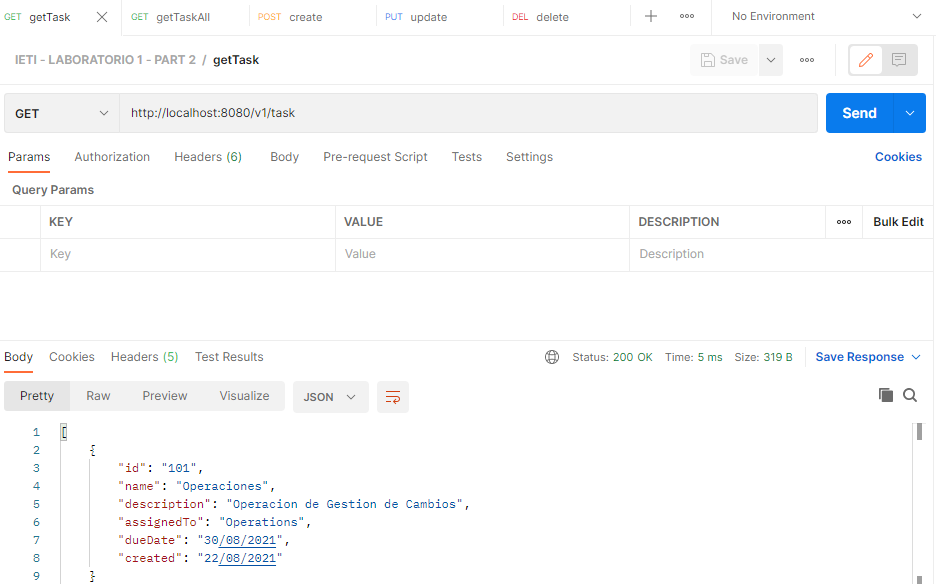
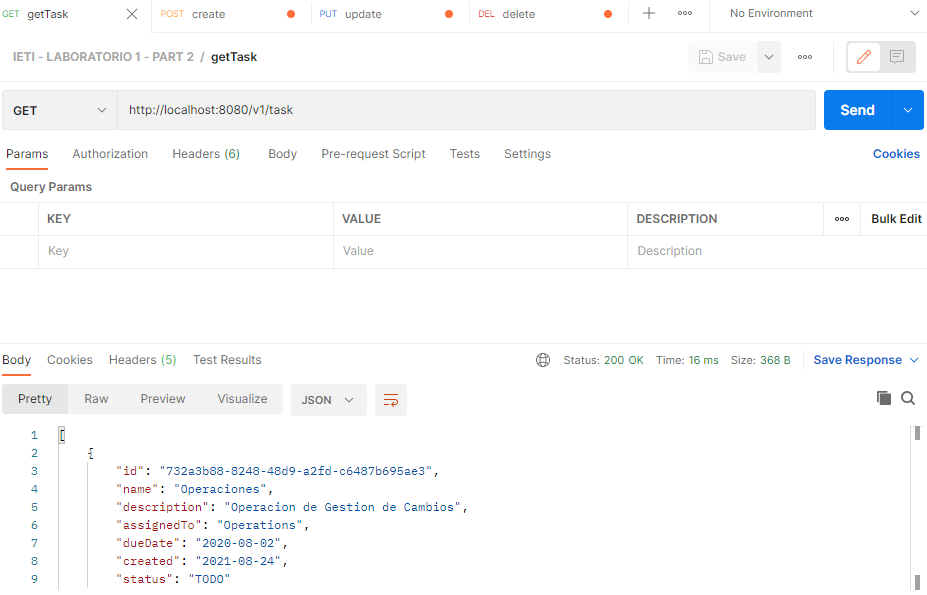
Update Postman

diff --git a/src/main/java/edu/eci/ieti/APISpringBootRest/data/Task.java b/src/main/java/edu/eci/ieti/APISpringBootRest/data/Task.java
@@ -2,8 +2,10 @@ package edu.eci.ieti.APISpringBootRest.data;
 
 import com.fasterxml.jackson.annotation.JsonFormat;
 import com.fasterxml.jackson.annotation.JsonFormat.Shape;
-
+import edu.eci.ieti.APISpringBootRest.Status.Status;
+import edu.eci.ieti.APISpringBootRest.dto.TaskDto;
 import java.util.Date;
+import java.util.UUID;
 
 public class Task {
 
@@ -17,10 +19,6 @@ public class Task {
     private Date created;
     private Status status;
 
-    enum Status{
-        TODO, DOING, REVIEW, DONE
-    }
-
     public Task(String id, String name, String description, String assignedTo, Date dueDate, Date created, Status status) {
         this.id = id;
         this.name = name;
@@ -29,6 +27,26 @@ public class Task {
         this.dueDate = dueDate;
         this.created = created;
         this.status = status;
+    }
+
+    public Task(TaskDto taskDto) {
+        this.id = UUID.randomUUID().toString();
+        this.name = taskDto.getName();
+        this.description = taskDto.getDescription();
+        this.status = taskDto.getStatus();
+        this.assignedTo = taskDto.getAssignedTo();
+        this.dueDate = taskDto.getDueDate();
+        this.created = new Date();
+    }
+
+    public Task(TaskDto taskDto, String id) {
+        this.id =  id;
+        this.name = taskDto.getName();
+        this.description = taskDto.getDescription();
+        this.status = taskDto.getStatus();
+        this.assignedTo = taskDto.getAssignedTo();
+        this.dueDate = taskDto.getDueDate();
+        this.created = new Date();
     }
 
     public String getId() {
@@ -86,4 +104,5 @@ public class Task {
     public void setStatus(Status status) {
         this.status = status;
     }
+
 }

diff --git a/src/main/java/edu/eci/ieti/APISpringBootRest/controller/TaskController.java b/src/main/java/edu/eci/ieti/APISpringBootRest/controller/TaskController.java
@@ -1,6 +1,7 @@
 package edu.eci.ieti.APISpringBootRest.controller;
 
 import edu.eci.ieti.APISpringBootRest.data.Task;
+import edu.eci.ieti.APISpringBootRest.dto.TaskDto;
 import edu.eci.ieti.APISpringBootRest.service.TaskService;
 import org.springframework.beans.factory.annotation.Autowired;
 import org.springframework.http.HttpStatus;
@@ -30,13 +31,21 @@ public class TaskController {
     }
 
     @PostMapping
-    public ResponseEntity<Task> create( @RequestBody Task task ) {
-        return ResponseEntity.status(HttpStatus.OK).body(taskService.create(task));
+    public ResponseEntity<Task> create( @RequestBody TaskDto taskDto ) {
+        try{
+            return ResponseEntity.status(HttpStatus.OK).body(taskService.create(new Task(taskDto)));
+        }catch (Exception e){
+            return ResponseEntity.status(HttpStatus.INTERNAL_SERVER_ERROR).body(null);
+        }
     }
 
     @PutMapping("/{id}")
-    public ResponseEntity<Task> update(@RequestBody Task task, @PathVariable String id){
-        return ResponseEntity.status(HttpStatus.OK).body(taskService.update(task, id));
+    public ResponseEntity<Task> update(@RequestBody TaskDto taskDto, @PathVariable String id){
+        try{
+            return ResponseEntity.status(HttpStatus.OK).body(taskService.update(taskDto, id));
+        }catch(Exception e){
+            return ResponseEntity.status(HttpStatus.INTERNAL_SERVER_ERROR).body(null);
+        }
     }
 
     @DeleteMapping( "/{id}" )
@@ -48,6 +57,5 @@ public class TaskController {
             return ResponseEntity.status(HttpStatus.INTERNAL_SERVER_ERROR.ordinal()).body((false));
         }
     }
-
 
 }

diff --git a/src/main/java/edu/eci/ieti/APISpringBootRest/dto/TaskDto.java b/src/main/java/edu/eci/ieti/APISpringBootRest/dto/TaskDto.java
@@ -2,6 +2,7 @@ package edu.eci.ieti.APISpringBootRest.dto;
 
 import com.fasterxml.jackson.annotation.JsonFormat;
 import com.fasterxml.jackson.annotation.JsonFormat.Shape;
+import edu.eci.ieti.APISpringBootRest.Status.Status;
 import java.util.Date;
 
 public class TaskDto {
@@ -13,18 +14,15 @@ public class TaskDto {
     private Date dueDate;
     @JsonFormat(shape = Shape.STRING, pattern = "dd/MM/yyyy")
     private Date created;
-    private Status status;
+    private Status statusTaskDto;
 
-    enum Status{
-        TODO, DOING, REVIEW, DONE
-    }
-
-    public TaskDto(String name, String description, String assignedTo, Date dueDate, Date created) {
+    public TaskDto(String name, String description, String assignedTo, Date dueDate, Date created, Status status) {
         this.name = name;
         this.description = description;
         this.assignedTo = assignedTo;
         this.dueDate = dueDate;
         this.created = created;
+        this.statusTaskDto = status;
     }
 
     public String getName() {
@@ -65,5 +63,13 @@ public class TaskDto {
 
     public void setCreated(Date created) {
         this.created = created;
+    }
+
+    public Status getStatus() {
+        return statusTaskDto;
+    }
+
+    public void setStatus(Status status) {
+        this.statusTaskDto = status;
     }
 }

diff --git a/src/main/java/edu/eci/ieti/APISpringBootRest/service/TaskServiceHashMap.java b/src/main/java/edu/eci/ieti/APISpringBootRest/service/TaskServiceHashMap.java
@@ -1,8 +1,8 @@
 package edu.eci.ieti.APISpringBootRest.service;
 
 import edu.eci.ieti.APISpringBootRest.data.Task;
+import edu.eci.ieti.APISpringBootRest.dto.TaskDto;
 import org.springframework.stereotype.Service;
-
 import java.util.ArrayList;
 import java.util.HashMap;
 import java.util.List;
@@ -14,7 +14,11 @@ public class TaskServiceHashMap implements TaskService{
 
     @Override
     public Task create(Task task) {
-        return tasksMap.put(task.getId(), task);
+        if (tasksMap.containsKey(task.getId())) {
+            throw new RuntimeException("El Usuario Existe!");
+        }
+        tasksMap.put(task.getId(), task);
+        return tasksMap.get(task.getId());
     }
 
     @Override
@@ -30,11 +34,17 @@ public class TaskServiceHashMap implements TaskService{
 
     @Override
     public void deleteById(String id) {
+        if (!tasksMap.containsKey(id)) {
+            throw new RuntimeException("El Usuario no Existe!");
+        }
         tasksMap.remove(id);
+
     }
 
     @Override
-    public Task update(Task task, String id) {
-        return tasksMap.put(id, task);
+    public Task update(TaskDto task, String id) {
+        deleteById(id);
+        return create(new Task(task, id));
     }
+
 }

diff --git a/src/main/java/edu/eci/ieti/APISpringBootRest/service/TaskService.java b/src/main/java/edu/eci/ieti/APISpringBootRest/service/TaskService.java
@@ -1,7 +1,7 @@
 package edu.eci.ieti.APISpringBootRest.service;
 
 import edu.eci.ieti.APISpringBootRest.data.Task;
-
+import edu.eci.ieti.APISpringBootRest.dto.TaskDto;
 import java.util.List;
 
 public interface TaskService {
@@ -14,6 +14,6 @@ public interface TaskService {
 
     void deleteById( String id );
 
-    Task update( Task task, String id );
+    Task update(TaskDto task, String id );
 
 }

diff --git a/src/main/java/edu/eci/ieti/APISpringBootRest/Status/Status.java b/src/main/java/edu/eci/ieti/APISpringBootRest/Status/Status.java
@@ -1,0 +1,5 @@
+package edu.eci.ieti.APISpringBootRest.Status;
+
+public enum Status{
+    TODO, DOING, REVIEW, DONE
+}
